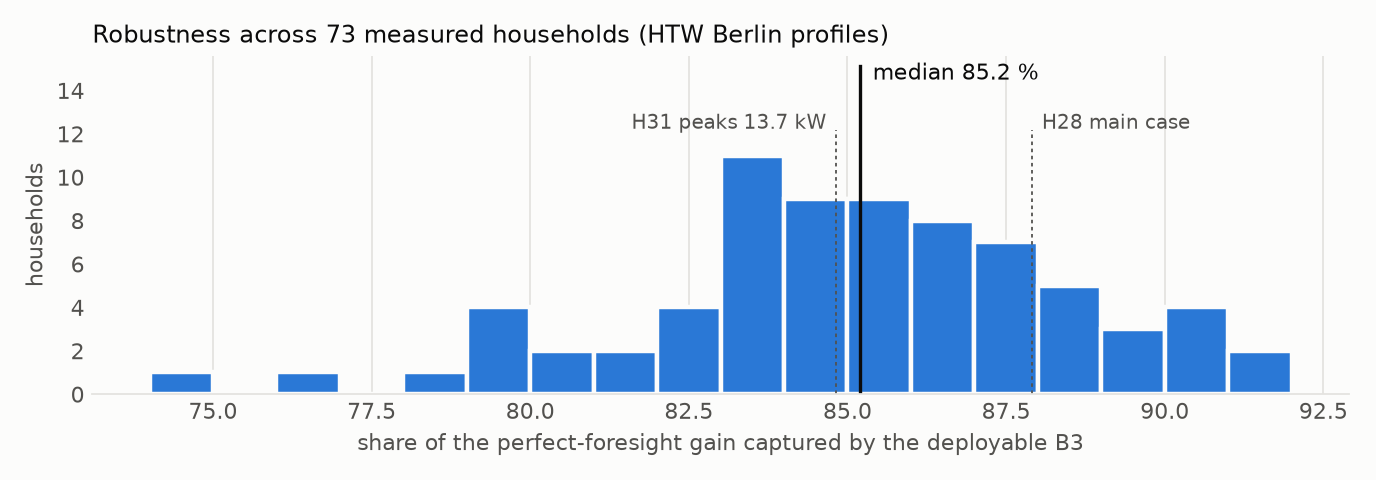
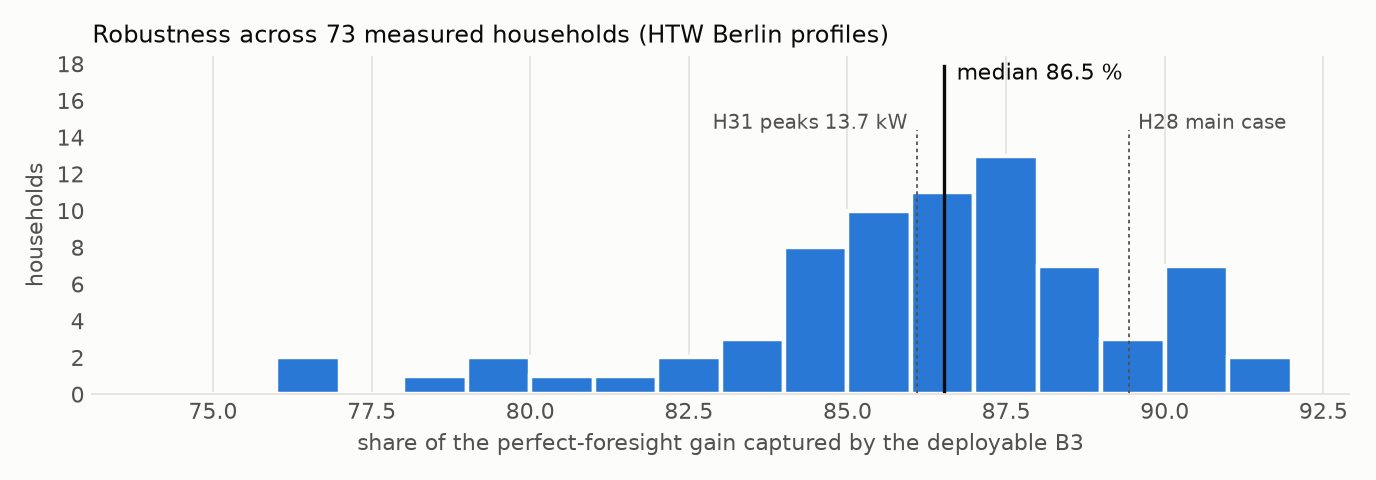
P01: rerun the sweep and sizing grid so every number shares one dataset
The HTW clock fix (c07847e) was followed by a partial rerun: B0 to B3, the
capture ladder and the RL formulations were recomputed, but the 73-household
sweep and the 20-configuration sizing grid were not, so the README compared
a post-fix B3 of 89.4 % against a pre-fix sweep median of 85.2 % and a sizing
row of -387.5 EUR/a against a benchmark row of -394.4. Two numbers from two
datasets in one table invite exactly the wrong conclusion about controller
quality, which is the whole point of the page.

Both now run on the fixed data. The sweep median moves 85.2 to 86.5 %
(H28 +1.51, H31 +1.28, no household beyond +3.64 or -1.77, so the household
ranking holds), and the sizing row to -394.38 EUR/a, matching the benchmark
table to the cent. Recomputed the four sizing insights against the new CSV:
B3 realises 95 % of the perfect-foresight savings rather than 94 %, and the
inverter step from 4.6 to 7.5 kW buys 8.8 EUR/a rather than 8.3.

Both "before the clock fix" blocks are gone, since there is nothing left to
warn about.

diff --git a/projects/01-prosumer-pv-bess-mpc-rl/README.md b/projects/01-prosumer-pv-bess-mpc-rl/README.md
@@ -119,12 +119,12 @@ constraint violations in every run.
 
 ![household sweep](docs/figures/household_sweep.png)
 
-**Before the clock fix, rerun pending:** across all 73 measured households the deployable
-B3 captured a median 85.2 % (middle half 83.5 to 87.3 %, range 75.0 to 91.4 %); the figure
-above is the same pre-fix run. The fix raised H28 by 1.5 points and H31 by 1.3, so the
-median is likely to rise by a similar amount once rerun. Households with high peaks capture
-less: H31, likely with an instantaneous electric water heater, reaches 97.9 % with perfect
-forecasts but 86.1 % with the standard-profile load forecast (both after the fix).
+Across all 73 measured households the deployable B3 captures a median **86.5 %** (middle
+half 84.8 to 88.3 %, range 76.8 to 91.2 %). The clock fix moved the median by +1.3 points
+(85.2 % before), H28 by +1.5 and H31 by +1.3, and no household by more than +3.6 or
+-1.8, so the ranking of households is essentially unchanged. Households with high peaks
+capture less: H31, likely with an instantaneous electric water heater, reaches 97.9 % with
+perfect forecasts but 86.1 % with the standard-profile load forecast.
 
 ### What is the quarter-hour day-ahead market worth?
 
@@ -202,8 +202,6 @@ Detailed per-seed statistics: [`reports/rl_eval_H28/`](reports/rl_eval_H28/).
 
 ### Economic bottom line and asset sizing
 
-> **Before the HTW clock fix, rerun pending.** The sizing grid below was computed with the pre-fix replay, so its 9.37 kWh / 5.63 kW row still shows the pre-fix B3 result (-387.5 EUR/a, 448.6 EUR/a savings, against the pre-fix PV-only baseline), not the rerun values in the benchmark table above.
-
 Twenty configurations, five battery capacities (5.0 to 15.0 kWh) against four inverter
 ratings (3.0, 4.6, 5.63, 7.5 kW), each operated over the same out-of-sample period as every
 other result here and each evaluated twice: once with the **deployable B3** and once with
@@ -213,12 +211,12 @@ savings are measured against the same site without a battery.
 
 | Battery | Inverter | CAPEX | Annual net cost (B3) | Annual savings (B3) | Cycles/a | Payback (B3) | ROCE (B3) | ROCE ceiling (B2) |
 |---:|---:|---:|---:|---:|---:|---:|---:|---:|
-| 5.00 kWh | 3.00 kW | 2,320 € | -247.8 € | 308.9 €/a | 316 | **7.5 yr** | **13.3 %** | 14.2 % |
-| 7.50 kWh | 4.60 kW | 3,499 € | -334.0 € | 395.2 €/a | 301 | 8.8 yr | 11.3 % | 12.0 % |
-| **9.37 kWh** | **5.63 kW** | **4,349 €** | **-387.5 €** | **448.6 €/a** | **288** | **9.7 yr** | **10.3 %** | 11.0 % |
-| 12.00 kWh | 5.63 kW | 5,270 € | -451.1 € | 512.2 €/a | 273 | 10.3 yr | 9.7 % | 10.3 % |
-| 15.00 kWh | 5.63 kW | 6,320 € | -513.8 € | 574.9 €/a | 260 | 11.0 yr | 9.1 % | 9.6 % |
-| 15.00 kWh | 7.50 kW | 6,675 € | -526.1 € | 587.2 €/a | 261 | 11.4 yr | 8.8 % | 9.3 % |
+| 5.00 kWh | 3.00 kW | 2,320 € | -255.8 € | 308.7 €/a | 316 | **7.5 yr** | **13.3 %** | 14.1 % |
+| 7.50 kWh | 4.60 kW | 3,499 € | -341.0 € | 393.9 €/a | 300 | 8.9 yr | 11.3 % | 11.9 % |
+| **9.37 kWh** | **5.63 kW** | **4,349 €** | **-394.4 €** | **447.3 €/a** | **287** | **9.7 yr** | **10.3 %** | 10.8 % |
+| 12.00 kWh | 5.63 kW | 5,270 € | -458.1 € | 511.0 €/a | 273 | 10.3 yr | 9.7 % | 10.2 % |
+| 15.00 kWh | 5.63 kW | 6,320 € | -520.6 € | 573.5 €/a | 259 | 11.0 yr | 9.1 % | 9.5 % |
+| 15.00 kWh | 7.50 kW | 6,675 € | -533.0 € | 585.9 €/a | 261 | 11.4 yr | 8.8 % | 9.2 % |
 
 Full sweep across all 20 configurations: [`reports/sizing_grid/sizing_grid.csv`](reports/sizing_grid/sizing_grid.csv).
 
@@ -230,16 +228,16 @@ Full sweep across all 20 configurations: [`reports/sizing_grid/sizing_grid.csv`]
    adds 126 EUR/a. The reason is visible in the cycle count, which falls from 316 to 260 full
    equivalent cycles a year: a larger battery spends more of the German winter unused.
 2. **The inverter saturates early.** On a 9.37 kWh battery, going from 4.6 to 7.5 kW adds
-   8.3 EUR/a for 551 EUR of extra equipment. Anything from 4.6 kW upward captures nearly all
+   8.8 EUR/a for 550 EUR of extra equipment. Anything from 4.6 kW upward captures nearly all
    of the value for an 8 kWp array.
 3. **Who operates the battery costs less than how big it is.** Across all 20 configurations
-   the deployable B3 realises 94 % of the perfect-foresight savings (93.6 to 95.6 %), a gap
-   of 0.5 to 0.9 points of ROCE. Choosing one size larger costs more return than the entire
+   the deployable B3 realises 95 % of the perfect-foresight savings (94.5 to 96.1 %), a gap
+   of 0.4 to 0.8 points of ROCE. Choosing one size larger costs more return than the entire
    distance between a real controller and a clairvoyant one.
 4. **Sweet spot.** For an 8 kWp array and 3,221 kWh/a of consumption, 5 to 7.5 kWh of storage
    with a 3 to 4.6 kW inverter maximises return (7.5 to 8.8 year payback, 11 to 13 % ROCE),
    while the 9.37 kWh / 5.63 kW point trades about 3 points of ROCE for
-   140 EUR/a more absolute savings.
+   139 EUR/a more absolute savings.
 
 ### Aggregate household load per federal state
 
@@ -281,7 +279,7 @@ What it does not claim: it is not validated for any state or year (the only trut
 
 - The actual weather and the forecast come from the same provider's model family, so the PV forecast problem is slightly easier than against measurements (irradiance nRMSE 0.27 against its own analysis, 0.31 against independent ERA5).
 - The measured households are from 2010 (no heat pumps or electric vehicles) and from one unknown region; they are replayed on the 2024 to 2026 calendar by weekday and local clock.
-- **Fixed 2026-10-26 (c07847e):** `htw.replay_on_calendar` read the HTW labels as MEZ, but they follow legal local time (see the aggregate load section), so every result that uses an HTW household as truth replayed its summer behaviour one hour late against PV and prices. Rerun with the fix: the benchmark table (B0 to B3), the capture ladder and its figure, H31, the quarter-hour study and its figure, the summer example day and its figure, and the load-forecast nRMSE. With the old code the rebuilt dataset reproduced every published number to four decimals, so each change comes from the fix alone (B3 capture 87.9 % to 89.4 %). All four RL formulations were retrained on the fixed data (3 seeds each); retrained policies also vary from seed to seed, so the RL changes are not attributed to the fix alone. Still pre-fix and marked as such: the 73-household sweep and its figure and the sizing grid.
+- **Fixed 2026-10-26 (c07847e):** `htw.replay_on_calendar` read the HTW labels as MEZ, but they follow legal local time (see the aggregate load section), so every result that uses an HTW household as truth replayed its summer behaviour one hour late against PV and prices. Rerun with the fix: the benchmark table (B0 to B3), the capture ladder and its figure, H31, the quarter-hour study and its figure, the summer example day and its figure, and the load-forecast nRMSE. With the old code the rebuilt dataset reproduced every published number to four decimals, so each change comes from the fix alone (B3 capture 87.9 % to 89.4 %). All four RL formulations were retrained on the fixed data (3 seeds each); retrained policies also vary from seed to seed, so the RL changes are not attributed to the fix alone. The 73-household sweep, its figure and the sizing grid were rerun last (2026-10-30): the sweep median moved 85.2 % to 86.5 % and the 9.37 kWh / 5.63 kW sizing row -387.5 to -394.4 EUR/a, so every number on this page now comes from the same dataset.
 - The hourly counterfactual uses the hourly mean of the quarter-hour prices; bidding under hourly products would have differed, so the study measures the value of the finer signal, not a market counterfactual.
 - 2026 ends on 17 September.
 

diff --git a/HANDOFF.md b/HANDOFF.md
@@ -375,7 +375,8 @@ Read this section first when continuing on the personal laptop. Everything below
 ### Status when the EIM-MUK session ended (2026-10-27, about 08:45)
 - The rerun was stopped on Murat's request after about ten hours: EIM-MUK has four physical cores, it slept for a while, and the household sweep alone would have needed several more hours.
 - Committed in the commit that adds this block (LOCAL on EIM-MUK, NOT pushed; GitHub stays at cb3b837 until Murat pushes): post-fix `reports/rolling_eval_htw_H28`, `rolling_eval_htw_H31`, `quarter_hour_study_H28`; regenerated `docs/figures/capture_ladder.png` (without the RL bar until RL is rerun), `quarter_hour_value.png`, `example_day_dispatch.png`; P01 README numbers for B0 to B3, the capture ladder, H31, the quarter-hour study, the example day and the load-forecast nRMSE, reviewed against the CSVs. Headline: deployable B3 89.4 % (pre-fix 87.9 %); PV-only B0 +52.89 EUR/a (pre-fix +61.13); B3 payback 9.7 yr, ROCE 10.3 %.
-- Still pre-fix and marked "before the clock fix" in the README: `household_sweep.csv` and its figure, `sizing_grid`, `rl_eval_H28` and the `rl_ablation_*` tables (the new net_cost/clip ablation never finished). 30 of 73 households were rerun before the stop: `projects/01-prosumer-pv-bess-mpc-rl/data/claude_session_2026-10-26/rerun_partial/reports/household_sweep_partial.csv` (median 87.4 % on those 30; not comparable with the pre-fix median 85.2 % on all 73).
+- ~~Still pre-fix~~ **All reruns finished 2026-10-30 on the personal laptop.** The four RL formulations (commit `e8a75ad`), then the sizing grid (19.2 min) and the 73-household sweep (about 35 min), both much cheaper than the EIM-MUK estimate because this machine has eight cores and does not sleep. Nothing in the README is pre-fix any more. Results: sweep median 85.2 % to **86.5 %** (middle half 84.8 to 88.3, range 76.8 to 91.2, no household moved more than +3.6 or -1.8); sizing 9.37 kWh / 5.63 kW row -387.5 to **-394.4 EUR/a**, which now matches the benchmark table exactly; RL both-changes **+32.4 %** (was 27.0 %).
+- **Trap found while doing it, worth fixing:** `household_sweep.run_household_sweep` resumes by reading the households already in `reports/household_sweep.csv`, so the first rerun exited 0 in 0.0 minutes and left the stale file byte-identical. A rerun after a data fix is a silent no-op that reports success, the same shape as the P06 `.get(key, 0.0)` bug. The workaround is to delete or move the CSV first (HANDOFF already said so, which is why it was caught). A `--fresh` flag, or storing the input dataset's hash in the CSV and invalidating on mismatch, would stop it recurring.
 - The B3 solve time stays 5.9 ms with a footnote (the contended rerun CSV shows 19.5 ms); a rerun of H28 alone on an idle machine would replace it.
 - To finish, on any machine with c07847e or later: build the data (`prosumer build-data`, then H28/H31 via `dataset.with_measured_load` and `save_dataset`; on EIM-MUK they already exist in `data/processed/`); delete `reports/household_sweep.csv` (it appends) and run `prosumer household-sweep --workers <cores>`; `prosumer sizing --workers <cores>`; the four `rl-eval` runs listed above; then `python -c "from prosumer.reporting.figures import make_all; make_all()"` (restores the RL bar); update the README sections marked "before the clock fix", remove the markers, review the numbers with the definitions above, commit. Rough budget on four cores: sweep 73 x 6 CPU-min, sizing 20 x 7 CPU-min, SAC 1.5 to 3 h per seed. Run it on the shared tree only after the other session's uncommitted solver edits are committed or dropped, otherwise in a clean worktree.
 - EIM-MUK scratchpad and its worktree disappear with the session; run `git worktree prune` there afterwards. Everything worth keeping was copied to `projects/01-prosumer-pv-bess-mpc-rl/data/claude_session_2026-10-26/` (scripts including `readme_numbers.py`, logs, partial results) and to the session note `portfolio-p01-thesis-ext` on EIM-MUK.
@@ -600,3 +601,4 @@ reaches a figure, a README or the showcase unless it traces to a committed CSV.
 - 2026-10-27 · Claude Code · EIM-MUK: rerun stopped on request after ten hours. Committed locally (not pushed): post-fix H28, H31 and quarter-hour results, three regenerated figures, README numbers (B3 89.4 %, B0 +52.89 EUR/a); household sweep, sizing and RL marked pre-fix with the steps to finish them in the status block above.
 - 2026-10-29 · Claude Code · Fehlgeschlagenen Test behoben: nicht der Test war falsch, sondern der Loader. pandas schreibt die kürzeste exakte float64-Darstellung, liest sie aber mit einem ungenauen Parser zurück (14.399999999999995 wurde 14.399999999999997); float_precision="round_trip" in load_model und load_state_normals. 294 passed, 7 skipped. Danach die RL-Wiederholung vorbereitet: H28-Datensatz neu gebaut und das Gate bestanden (B1 -324,9827 / B2 -716,6751 / B3 -675,2715 / 89,4296 %, maximale Abweichung 0,0 gegen den eingecheckten Post-Fix-Bericht). Treiber scripts/rerun_rl_formulations.py committet, staged nach data/processed/rl_rerun_stage und veröffentlicht nichts selbst. Lauf nicht gestartet: Murat führt ihn auf dem Firmenrechner aus, Runbook in diesem HANDOFF unter "Runbook: rerun the four SAC formulations".
 - 2026-10-30 · Claude Code · EIM-MUK: RL rerun of all four SAC formulations finished (25.9 h, 3 seeds each, gate exact) and published: headline 32.4 % (pre-fix 27.0), original -7.3 %, rescaling only -3.4 %, reward only +27.0 %. The README claim that rescaling alone is harmful did not survive three seeds and was corrected. Household sweep and sizing grid stay pre-fix, to be rerun on the personal laptop.
+- 2026-10-30 · Claude Code · Letzte beiden Wiederholungen nach dem HTW-Uhrzeit-Fix abgeschlossen, damit alle Zahlen in P01 aus demselben Datensatz kommen. Sizing-Grid (19,2 min) und 73-Haushalte-Sweep (ca. 35 min) auf dem privaten Rechner. Sweep-Median 85,2 % auf 86,5 % (H28 +1,51, H31 +1,28, kein Haushalt mehr als +3,6 oder -1,8); Sizing-Zeile 9,37 kWh / 5,63 kW auf -394,4 EUR/a, stimmt jetzt exakt mit der Benchmark-Tabelle. README: beide "before the clock fix"-Blöcke entfernt, Sizing-Tabelle und die vier Sizing-Insights neu gerechnet (B3 realisiert 95 % statt 94 % der Perfect-Foresight-Einsparung), household_sweep.png neu erzeugt. 295 passed, 6 skipped, HTML-Integrität grün. Nebenbefund: der Resume-Mechanismus im Sweep macht eine Wiederholung nach einem Datenfix zum stillen No-Op mit Rückgabewert 0.
